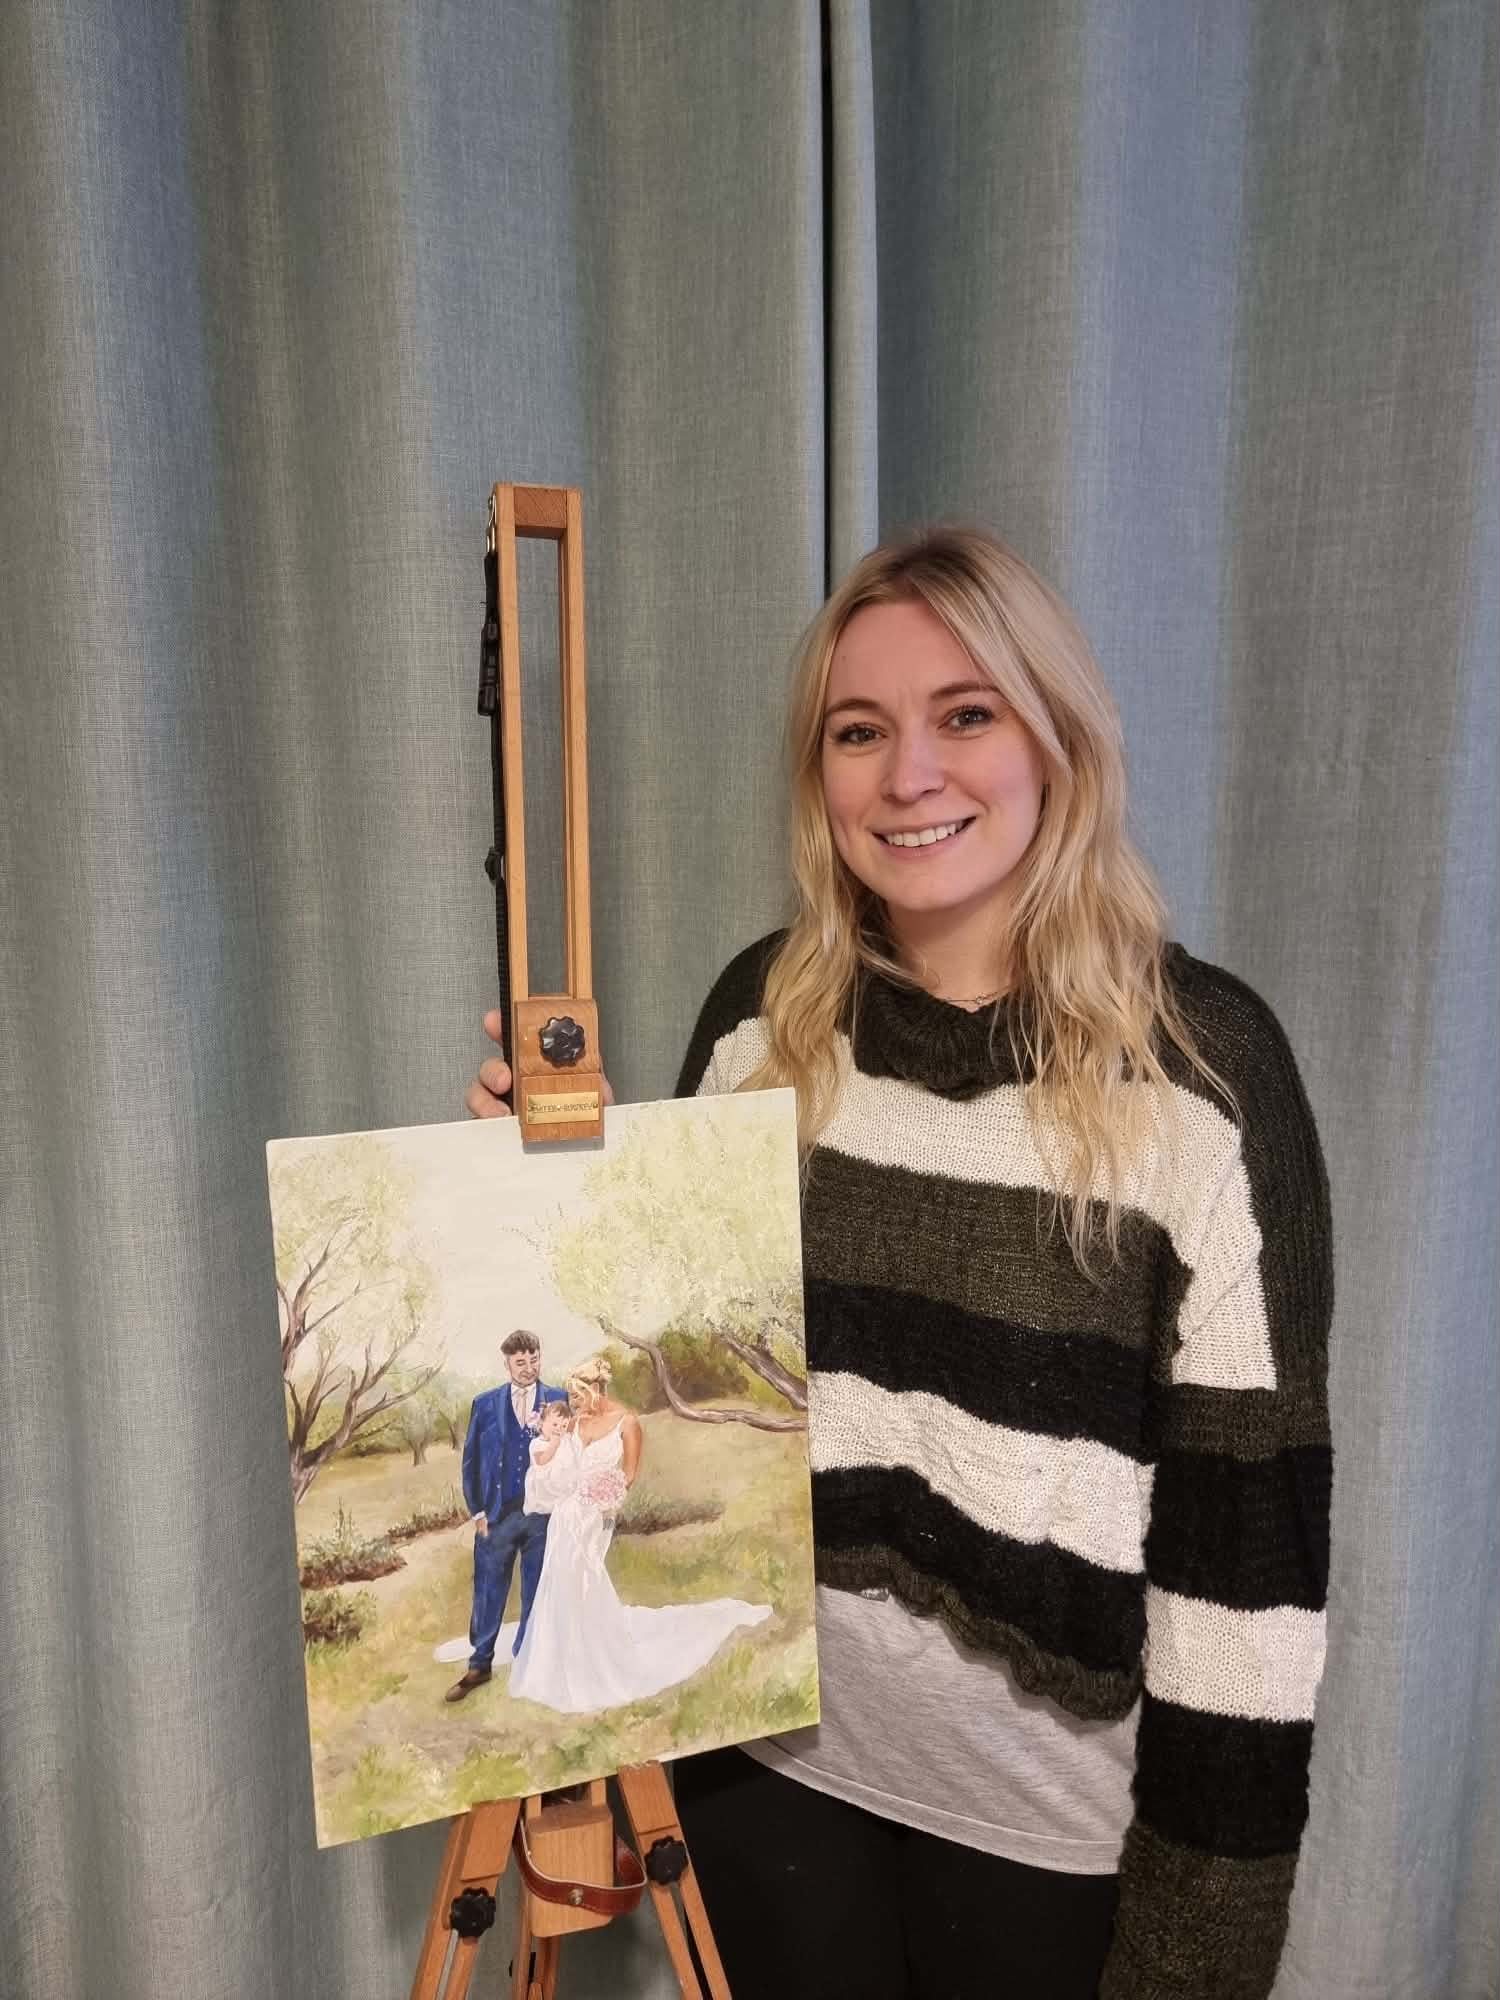
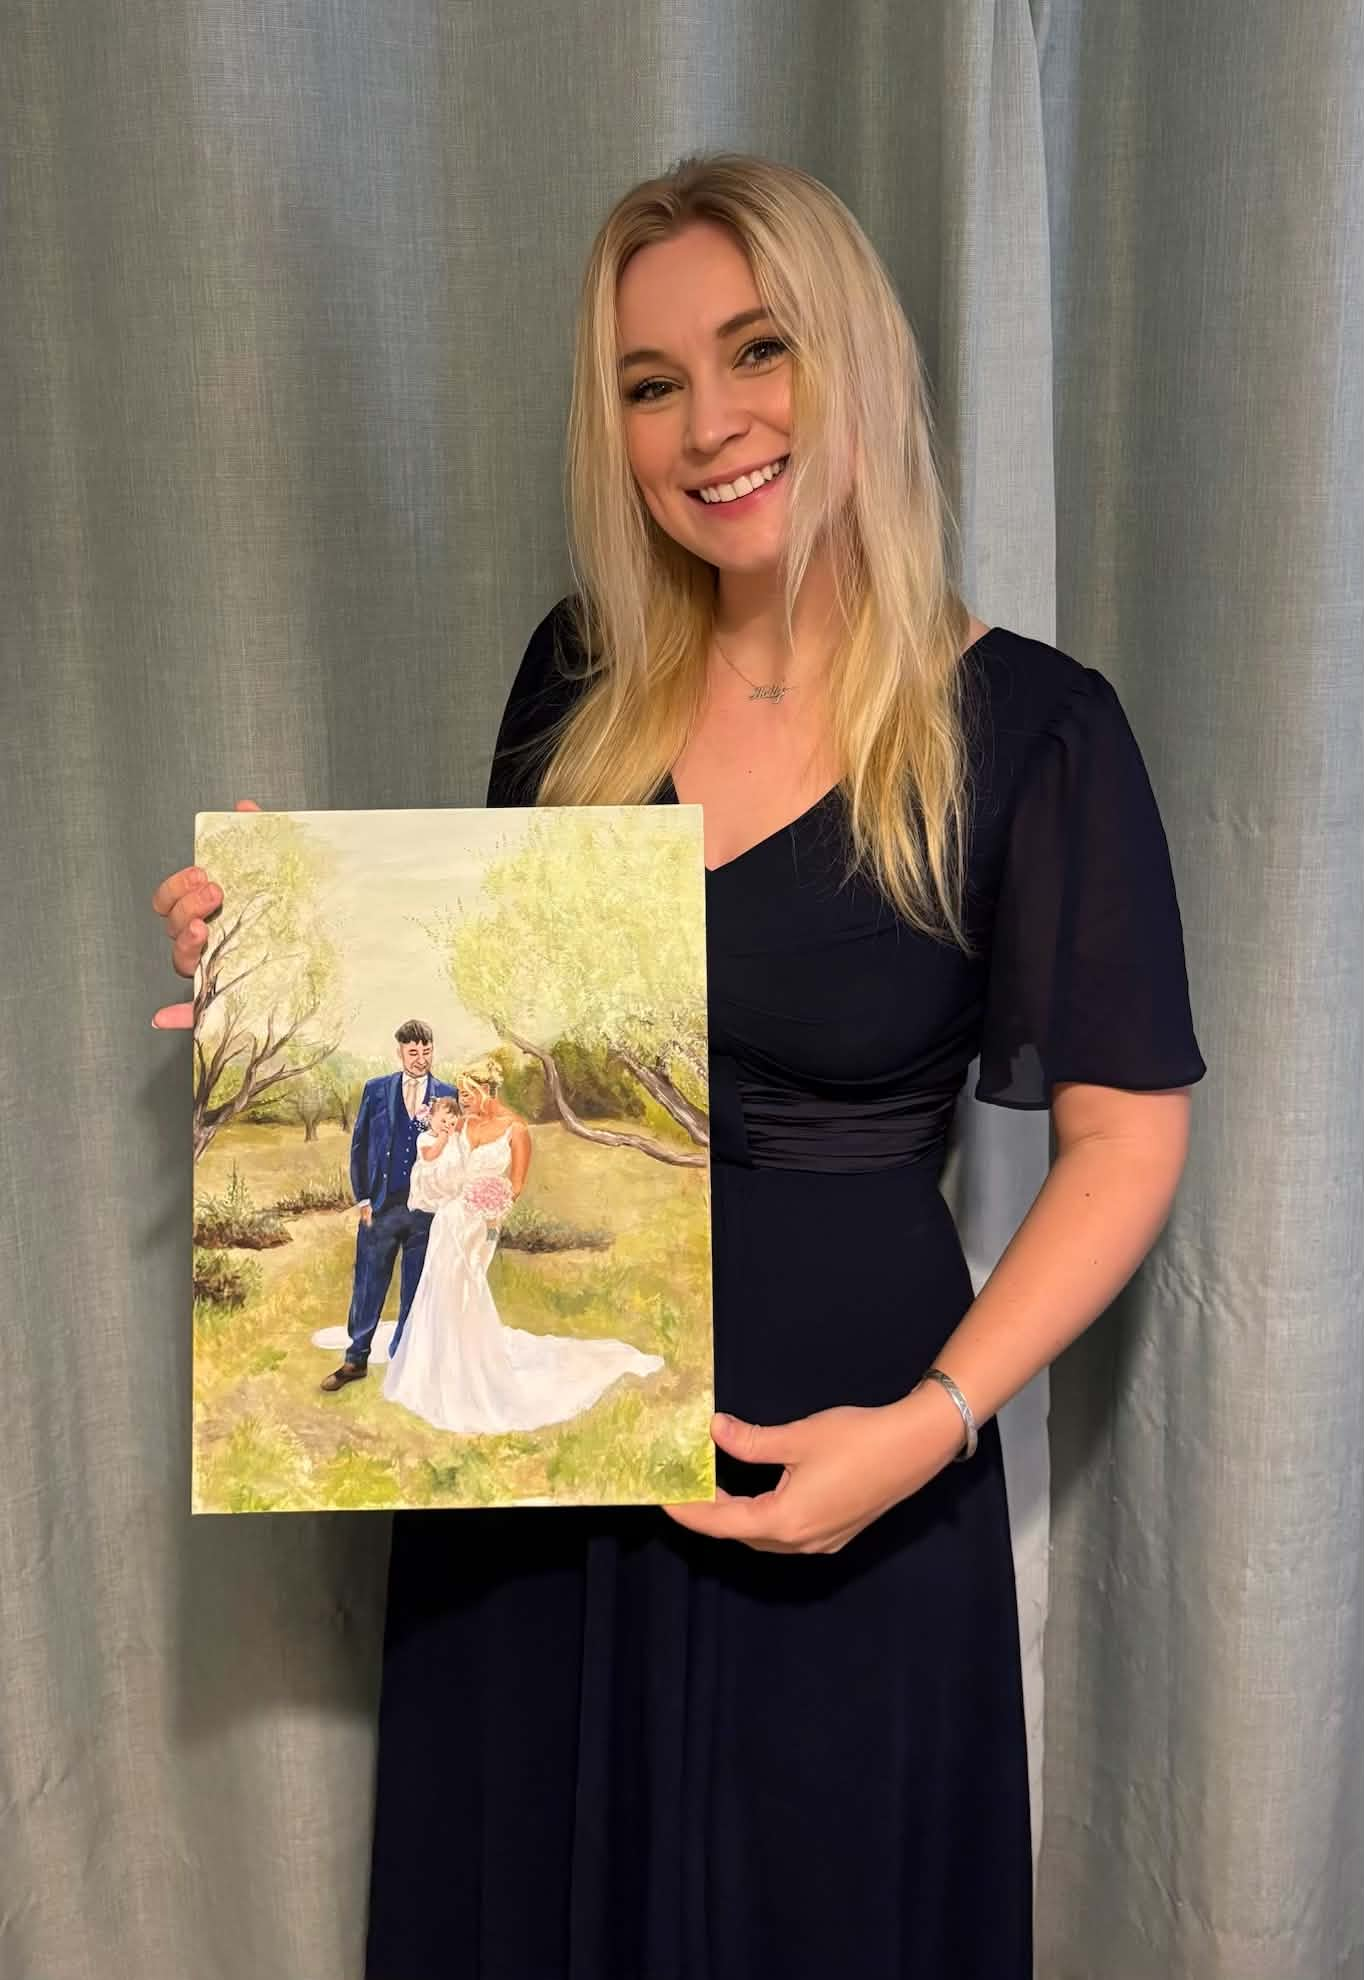
Update Images

diff --git a/src/data/portfolio.ts b/src/data/portfolio.ts
@@ -1,34 +1,68 @@
-import HannahLiam from '../assets/HannahLiam.jpg'
-import danielleChadEvie from '../assets/DanielleChad.jpg'
+import aliceTheCat from '../assets/AliceTheCat.jpg'
+import danielleChadImage from '../assets/DanielleChad.jpg'
+import HannahLiamImage from '../assets/HannahLiam.jpg'
+import mePainting from '../assets/mepainting.jpg'
 import weddingPortrait from '../assets/NevilleRachel.jpg'
+import sheilaRegImage from '../assets/SheilaReg.jpg'
+import sonyaDaveImage from '../assets/SonyaDave.jpg'
 import { sharedStrings } from '../constants/shared'
 
 export interface PortfolioPiece {
   title: string
   image: string
   imageAlt: string
-  orientation: 'portrait' | 'landscape'
-  crop?: 'top' | 'lower'
 }
 
-export const portfolioPieces: PortfolioPiece[] = [
+const sonyaDave: PortfolioPiece = {
+  ...sharedStrings.portfolio.pieces.sonyaDave,
+  image: sonyaDaveImage,
+}
+const danielleChad: PortfolioPiece = {
+  ...sharedStrings.portfolio.pieces.danielleChad,
+  image: danielleChadImage,
+}
+const hannahLiam: PortfolioPiece = {
+  ...sharedStrings.portfolio.pieces.hannahLiam,
+  image: HannahLiamImage,
+}
+const sheilaReg: PortfolioPiece = {
+  ...sharedStrings.portfolio.pieces.sheilaReg,
+  image: sheilaRegImage,
+}
+const rachelNeville: PortfolioPiece = {
+  ...sharedStrings.portfolio.pieces.rachelNeville,
+  image: weddingPortrait,
+}
+const alice: PortfolioPiece = {
+  ...sharedStrings.portfolio.pieces.aliceTheCat,
+  image: aliceTheCat,
+}
+
+export const featuredPortfolioPieces = [sonyaDave, danielleChad, hannahLiam]
+
+export const portfolioPieces = [
+  alice,
+  ...featuredPortfolioPieces,
+  sheilaReg,
+  rachelNeville,
+]
+
+export const flyerPaintings = [hannahLiam, rachelNeville, danielleChad]
+
+export const studioMoments = [
   {
-    ...sharedStrings.portfolio.pieces.hannahLiam,
-    image: HannahLiam,
-    orientation: 'portrait',
-    crop: 'top',
-  },
-  {
-    ...sharedStrings.portfolio.pieces.danielleChad,
-    image: danielleChadEvie,
-    orientation: 'portrait',
+    ...sharedStrings.portfolio.pieces.sheilaReg,
+    image: sheilaRegImage,
   },
   {
     ...sharedStrings.portfolio.pieces.rachelNeville,
     image: weddingPortrait,
-    orientation: 'landscape',
-    crop: 'lower',
   },
 ]
+
+export const paintingInProgress = {
+  image: mePainting,
+  imageAlt: sharedStrings.portfolio.studioMoments.painting.imageAlt,
+}
 
 export const processSteps = sharedStrings.process.steps

diff --git a/src/components/tabs/ProcessTab.tsx b/src/components/tabs/ProcessTab.tsx
@@ -1,4 +1,4 @@
-import { processSteps } from '../../data/portfolio'
+import { paintingInProgress, processSteps } from '../../data/portfolio'
 import { sharedStrings } from '../../constants/shared'
 import { ContentPanel } from '../shared/ContentPanel'
 import { Heading } from '../shared/Heading'
@@ -10,19 +10,27 @@ export function ProcessTab() {
       <div className="mb-3 text-center">
         <Heading>{sharedStrings.process.heading}</Heading>
       </div>
-      <div className="mb-3">
-        <BodyText>{sharedStrings.process.introduction}</BodyText>
-      </div>
-
-      <div className="flex flex-col gap-6">
-        {processSteps.map((step, index) => (
-          <section key={step.title}>
-            <Heading as="h3">
-              {index + 1}. {step.title}
-            </Heading>
-            <BodyText>{step.description}</BodyText>
-          </section>
-        ))}
+      <div className="grid grid-cols-1 items-start gap-6 md:grid-cols-[minmax(220px,0.8fr)_minmax(0,1.2fr)] md:gap-8">
+        <img
+          src={paintingInProgress.image}
+          alt={paintingInProgress.imageAlt}
+          className="mx-auto block h-auto max-h-[720px] w-full max-w-[420px] rounded-3xl object-contain md:sticky md:top-6"
+        />
+        <div>
+          <div className="mb-5">
+            <BodyText>{sharedStrings.process.introduction}</BodyText>
+          </div>
+          <div className="flex flex-col gap-6">
+            {processSteps.map((step, index) => (
+              <section key={step.title}>
+                <Heading as="h3">
+                  {index + 1}. {step.title}
+                </Heading>
+                <BodyText>{step.description}</BodyText>
+              </section>
+            ))}
+          </div>
+        </div>
       </div>
 
       <aside className="mt-8 rounded-2xl bg-blush p-4 sm:p-6">

diff --git a/src/components/tabs/HomeTab.tsx b/src/components/tabs/HomeTab.tsx
@@ -1,4 +1,4 @@
-import { portfolioPieces } from '../../data/portfolio'
+import { featuredPortfolioPieces, studioMoments } from '../../data/portfolio'
 import { sharedStrings } from '../../constants/shared'
 import { ContentPanel } from '../shared/ContentPanel'
 import { Heading } from '../shared/Heading'
@@ -12,9 +12,30 @@ export function HomeTab() {
         {sharedStrings.home.heading}
       </Heading>
       <BodyText className="mb-3">{sharedStrings.home.description}</BodyText>
-      <div className="grid grid-cols-[repeat(auto-fit,minmax(min(100%,260px),1fr))] gap-4">
-        {portfolioPieces.map((piece) => (
+      <div className="grid grid-cols-1 items-start gap-4 sm:grid-cols-2 lg:grid-cols-3">
+        {featuredPortfolioPieces.map((piece) => (
           <FeaturedArtworkCard key={piece.title} piece={piece} />
+        ))}
+      </div>
+      <div className="mt-6 grid grid-cols-1 items-start gap-3 md:grid-cols-2">
+        {studioMoments.map((moment) => (
+          <figure
+            key={moment.image}
+            className="overflow-hidden rounded-3xl bg-frame text-center"
+          >
+            <div className="h-[380px] w-full md:h-[400px]">
+              <img
+                src={moment.image}
+                alt={moment.imageAlt}
+                className="block h-full w-full rounded-3xl object-cover"
+              />
+            </div>
+            <figcaption className="px-4 py-3">
+              <Heading as="h3" variant="display" className="text-inherit">
+                {moment.title}
+              </Heading>
+            </figcaption>
+          </figure>
         ))}
       </div>
     </ContentPanel>

diff --git a/src/components/shared/FeaturedArtworkCard.tsx b/src/components/shared/FeaturedArtworkCard.tsx
@@ -1,33 +1,25 @@
 import type { PortfolioPiece } from '../../data/portfolio'
-import { cn } from '../../lib/cn'
 import { Heading } from './Heading'
-
-const imagePositionClasses = {
-  top: 'object-[center_25%]',
-  lower: 'object-[center_65%]',
-} as const
 
 interface FeaturedArtworkCardProps {
   piece: PortfolioPiece
 }
 
 export function FeaturedArtworkCard({ piece }: FeaturedArtworkCardProps) {
-  const imagePosition = piece.crop ? imagePositionClasses[piece.crop] : undefined
-
   return (
-    <article className="h-full min-w-0 overflow-hidden rounded-3xl bg-frame text-white">
-      <div className="box-border aspect-[4/5] max-h-[min(380px,calc(45vh-64px))] w-full bg-frame p-2">
+    <figure className="m-0 min-w-0 overflow-hidden rounded-3xl bg-frame text-center">
+      <div className="aspect-[4/5] w-full overflow-hidden rounded-3xl">
         <img
           src={piece.image}
           alt={piece.imageAlt}
-          className={cn('block h-full w-full object-cover', imagePosition)}
+          className="block h-full w-full object-contain"
         />
       </div>
-      <div className="flex min-h-[54px] items-center justify-center px-4 py-2 text-center">
-        <Heading as="h3" className="text-inherit">
+      <figcaption className="px-4 py-3">
+        <Heading as="h3" variant="display" className="text-inherit">
           {piece.title}
         </Heading>
-      </div>
-    </article>
+      </figcaption>
+    </figure>
   )
 }

diff --git a/src/components/tabs/GalleryTab.tsx b/src/components/tabs/GalleryTab.tsx
@@ -1,12 +1,6 @@
 import { portfolioPieces } from '../../data/portfolio'
 import { sharedStrings } from '../../constants/shared'
-import { cn } from '../../lib/cn'
 import { Heading } from '../shared/Heading'
-
-const galleryFrameClasses = {
-  portrait: 'm-0 box-border w-[88%] overflow-hidden sm:w-[72%] md:w-[62%] md:max-w-[760px]',
-  landscape: 'm-0 w-full overflow-hidden',
-} as const
 
 export function GalleryTab() {
   return (
@@ -18,12 +12,12 @@ export function GalleryTab() {
         {portfolioPieces.map((piece) => (
           <figure
             key={piece.title}
-            className={cn(galleryFrameClasses[piece.orientation])}
+            className="m-0 w-full max-w-[900px] overflow-hidden rounded-3xl bg-frame"
           >
             <img
               src={piece.image}
               alt={piece.imageAlt}
-              className="block h-auto max-h-[72vh] w-full max-w-full object-contain"
+              className="block h-auto w-full object-contain"
             />
           </figure>
         ))}

diff --git a/src/constants/shared.ts b/src/constants/shared.ts
@@ -83,6 +83,18 @@ export const sharedStrings = {
   },
   portfolio: {
     pieces: {
+      sonyaDave: {
+        title: 'Sonya & Dave',
+        imageAlt: 'Live wedding painting of Sonya and Dave',
+      },
+      sheilaReg: {
+        title: 'Sheila & Reg',
+        imageAlt: 'Wedding painting of Sheila and Reg',
+      },
+      aliceTheCat: {
+        title: 'Alice the Cat',
+        imageAlt: 'Portrait painting of Alice the cat',
+      },
       hannahLiam: {
         title: 'Hannah & Liam',
         imageAlt: 'Painted portrait of a couple displayed on an artist’s easel',
@@ -94,6 +106,12 @@ export const sharedStrings = {
       rachelNeville: {
         title: 'Rachel & Neville',
         imageAlt: 'Painting of a newly married couple holding hands outdoors',
+      },
+    },
+    studioMoments: {
+      painting: {
+        title: 'Painting live on a wedding day',
+        imageAlt: 'Holly painting at a wedding',
       },
     },
   },

diff --git a/src/pages/FlyerPage.tsx b/src/pages/FlyerPage.tsx
@@ -1,14 +1,12 @@
 import { QRCodeSVG } from 'qrcode.react'
 import { useRef, useState } from 'react'
-import { portfolioPieces } from '../data/portfolio'
+import { flyerPaintings } from '../data/portfolio'
 import { sharedStrings } from '../constants/shared'
 import meImage from '../assets/me.jpg'
 import { BodyText } from '../components/shared/BodyText'
 import { Caption } from '../components/shared/Caption'
 import { Heading } from '../components/shared/Heading'
 import './FlyerPage.css'
-
-const flyerPaintings = [portfolioPieces[0], portfolioPieces[2], portfolioPieces[1]]
 
 export function FlyerPage() {
   const sheetRef = useRef<HTMLDivElement>(null)

diff --git a/src/components/tabs/AboutTab.tsx b/src/components/tabs/AboutTab.tsx
@@ -15,7 +15,7 @@ export function AboutTab() {
         <img
           src={meImage}
           alt={sharedStrings.about.artistImageAlt}
-          className="mx-auto block aspect-[4/5] max-h-[360px] w-full rounded-2xl object-cover"
+          className="mx-auto block h-auto max-h-[440px] max-w-full rounded-2xl object-contain"
         />
       </div>
     </ContentPanel>
